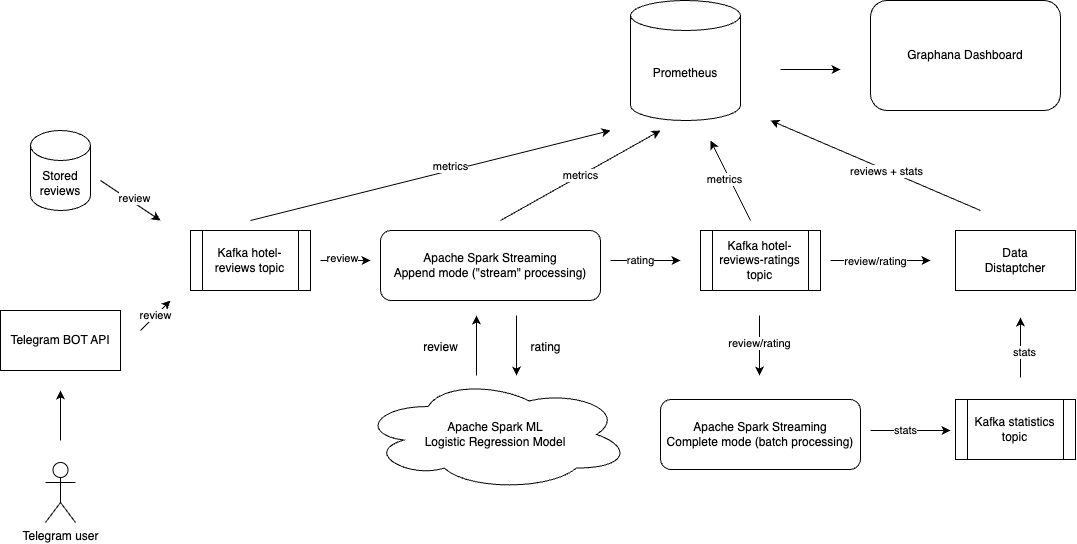
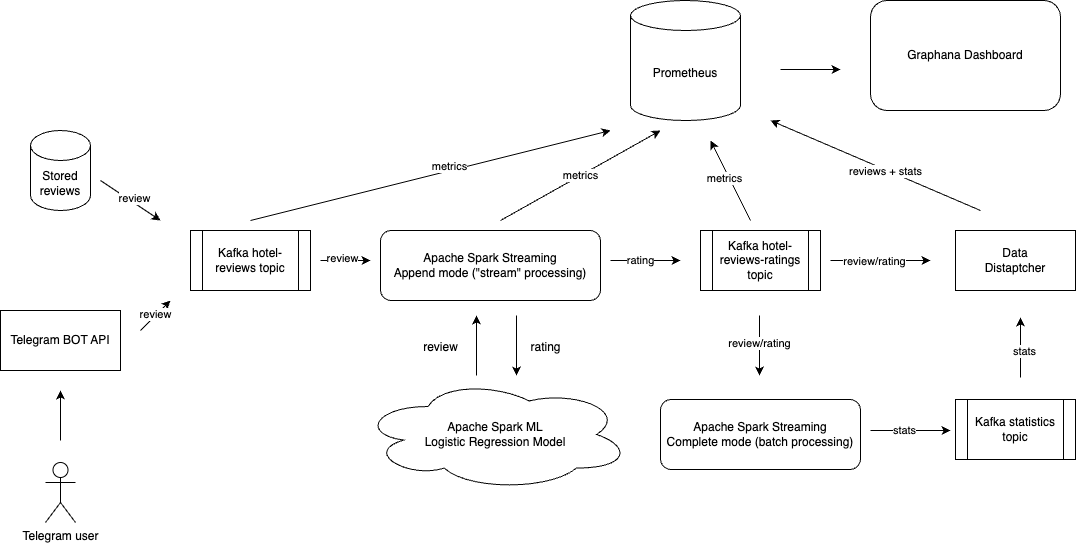
make image background non transparent

diff --git a/README.md b/README.md
@@ -15,7 +15,7 @@ The system represents a real-time hotel review stream pipeline. The pipeline its
 
 ## Architecture
 
-![alt text](img/spark-streaming-rich-picture.png "Architecture")
+![alt text](img/spark-streaming-rich-picture.jpg "Architecture")
 
 The architecture contains of multiple datasources that are writing into the Apache Kafka queue:
 * `Telegram Bot` represents a user client, where user could give a review of they stay in the hotel.
